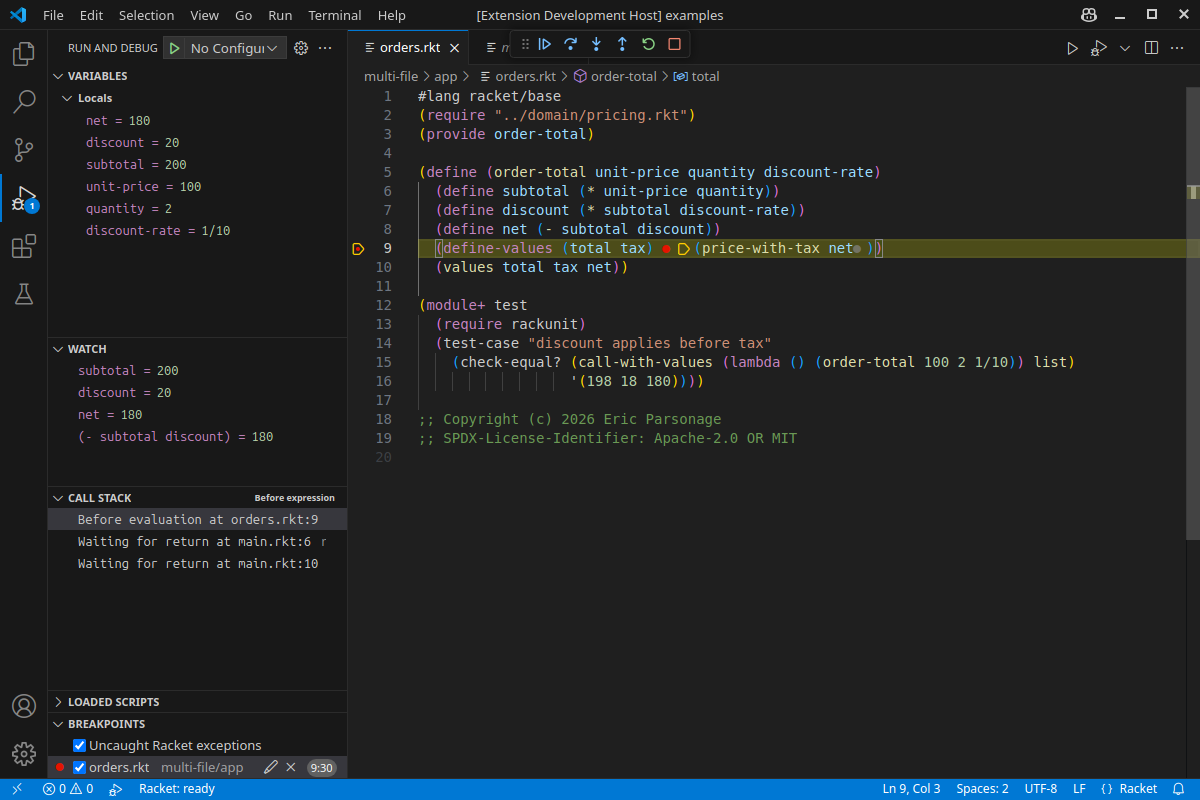
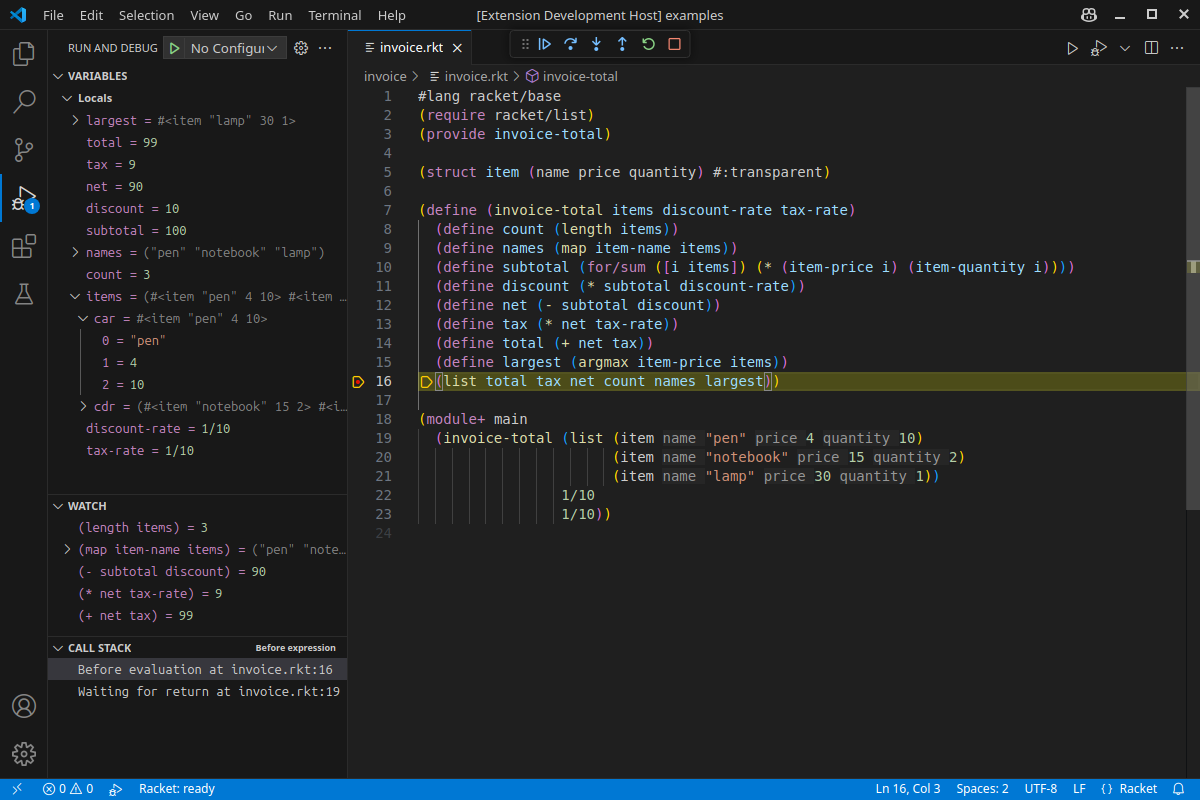
Lead the README with source-level debugging
The opening, the feature list and the first screenshot now start with the
debugger, with a fuller picture showing locals, an expanded structure and
watch expressions. The debugging sections follow installation, and the macro
stepper screenshot sits under its own section.

diff --git a/vscode/README.md b/vscode/README.md
@@ -1,19 +1,19 @@
 # Racketeer: Organised Racket
 
-Racketeer brings macro stepping, workspace navigation, debugger attachment and rich results to Racket development in VS Code and VSCodium.
+Racketeer brings source-level debugging, macro stepping, workspace navigation and rich results to Racket development in VS Code and VSCodium.
 
+- **Source-level debugging:** set line and inline breakpoints, step through expressions across files and chosen packages, and inspect or change live values.
+- **Attach the debugger to a running Racket program:** inspect servers and jobs started outside the editor. The program must embed Racketeer's debug host; disconnecting leaves the host running.
 - **Macro stepping inside VS Code:** follow expansion in linked Before and After panes beside the source, with syntax colouring, scope colours, binding arrows and term details.
 - **Vastly improved workspace indexing:** find references and rename across files, including unopened modules. On a measured 53-file project, indexing fell from **97.9 s to 8.9 s with one worker**, and from **37.0 s to 5.3 s with three workers**, with identical results. The index runs on request and reanalyses only files whose text or dependencies changed on later passes while the window stays open.
-- **Attach the debugger to a running Racket program:** inspect servers and jobs started outside the editor. The program must embed Racketeer's debug host; disconnecting leaves the host running.
 - **Language and debugging servers included:** Racketeer provides a language server and a workspace indexing server over the Language Server Protocol (LSP), and a debug adapter over the Debug Adapter Protocol (DAP).
-- **Debug expressions:** set line and inline breakpoints, step across files and chosen packages, and inspect or change live values.
 - **See results beside the code:** display text, images, picts and plots in Results or Interactions; zoom and rotate plots during debugging.
 - **Test in Test Explorer:** run, debug or measure coverage, with individual RackUnit cases available in supported modules and suites.
 - **Navigate, edit and experiment:** use hover documentation, completion, go to definition, live diagnostics and formatting, plus an Interactions window or a terminal REPL.
 - **Package and build:** manage Racket packages and create launchers, executables and distributions.
 - **Edit WXME and Rhombus:** edit WXME documents with embedded boxes, and Rhombus with the separate `rhombus` package.
 
-![Macro stepping beside the source, with linked Before and After panes and binding arrows](https://raw.githubusercontent.com/lamestllama/racketeer/main/docs/images/macro-steps.png)
+![Stopped at a breakpoint, with local variables, an expanded structure, watch expressions and the call stack visible](https://raw.githubusercontent.com/lamestllama/racketeer/main/docs/images/debugging.png)
 
 Indexing measurements: [0.8.55 release record](https://github.com/lamestllama/racketeer/blob/main/docs/releases/0.8.55.md#measured-gains). These figures describe the measured project; timings vary with the workload.
 
@@ -32,23 +32,33 @@ If the status bar shows **Racket: external LSP**, select **Use Racketeer’s Too
 
 For version errors, installing a VSIX or replacing the earlier development extension, see [installation troubleshooting](https://github.com/lamestllama/racketeer/blob/main/docs/workflows.md#installation-troubleshooting). The [release record](https://github.com/lamestllama/racketeer/blob/main/docs/releases/0.8.55.md#platform-coverage) records platform coverage.
 
-## Expand macros
+## Debug with breakpoints
 
-Open linked **Before** and **After** panes beside the source, with scope colours, binding arrows and term details. Choose which macros appear, or duplicate the stepper to compare expansions independently.
+Stop on a line or at an expression within it, across workspace files and chosen packages, and inspect the program's state.
 
-Use **Racket: Step Through Macros on This Line** (**Alt+Shift+M**) for the current line or selection, or **Racket: Step Through Macros in This File** for the whole file. Both use unsaved buffer text without saving it. Try [the macro example](https://github.com/lamestllama/racketeer/blob/main/examples/macro-stepper.rkt).
+Run **Racket: Debug Current File**, then select the gutter beside a line number or press **F9** to add a breakpoint. Right-click it to add a condition, hit count or log message. **Racket: Continue to Cursor** runs to one chosen point.
 
-Expansion runs readers and compile-time code and requires a trusted workspace. It does not run the module's ordinary body. A graphical display is not required.
+Uncaught runtime exceptions stop by default so their details, lexical variables and Call Stack can be inspected. Choose **Continue** to let the same exception propagate.
 
-The [macro-stepper guide](https://github.com/lamestllama/racketeer/blob/main/docs/editor-tools.md#macro-stepper) covers navigation, display and hiding options, worker lifetime, limits and error controls.
+See [breakpoints](https://github.com/lamestllama/racketeer/blob/main/docs/debugger.md#breakpoints) for binding rules and edge cases, and [uncaught exceptions](https://github.com/lamestllama/racketeer/blob/main/docs/debugger.md#uncaught-exceptions) for exception behaviour.
 
-## Find and rename across a project
+## Step through expressions
 
-**Find All References** and **Rename Symbol** (F2) include unopened `.rkt`, `.ss`, `.scm` and `.scrbl` modules in a trusted workspace. The index runs on request; the first request after a change waits for a cancellable pass. While the window stays open, later passes reanalyse only files whose text or dependencies changed. Unsaved buffers supply their files' text.
+Use **Step Into** (F11), **Step Over** (F10), **Step Out** (Shift+F11) and **Continue** (F5). Stops show both expression starts and returned values; open **Return values** in Variables after a return.
 
-The defaults allow **1,000 files**, **1 MiB per file** and **16 MiB total**. The status bar reports progress and partial references. Rename requires a complete, current index and refuses incomplete or stale results. Excluded folders and unscanned file types remain outside a rename, so check those callers separately; default exclusions include `build` and `dist`.
+By default a launch stops in `main`, the selected submodule or the module body. See [Understanding the stops](https://github.com/lamestllama/racketeer/blob/main/docs/stepping.md) for entry modes, tail calls, source markers and stepping limits.
 
-Use **Racket: Refresh Workspace References** after external package changes or to retry a failed analysis. See the [measured indexing gains](https://github.com/lamestllama/racketeer/blob/main/docs/releases/0.8.55.md#measured-gains), [workspace-reference settings and limits](https://github.com/lamestllama/racketeer/blob/main/docs/editor-tools.md#workspace-references) and [rename rules](https://github.com/lamestllama/racketeer/blob/main/docs/editor-tools.md#rename-across-files).
+## Inspect and change values
+
+Select a frame in **Call Stack**, then expand **Variables → Locals**, hover a variable, or evaluate Racket in the **Debug Console** or **Watch**. For example: `(+ subtotal 20)` or `(set! subtotal 200)`.
+
+**Racket: Set Variable Value** changes the variable under the cursor in the selected frame. Evaluation and assignment take real effect. See [evaluation and values](https://github.com/lamestllama/racketeer/blob/main/docs/debugger.md#evaluation-and-values) for expression replacement, printing, cancellation and inspection boundaries.
+
+## Save a launch configuration
+
+Use **Add Configuration** in `launch.json` to save a program's arguments, environment, console, entry behaviour and source selection.
+
+See [launching a program](https://github.com/lamestllama/racketeer/blob/main/docs/debugger.md#launching-a-program) for an example and the attribute reference, and [compiled code](https://github.com/lamestllama/racketeer/blob/main/docs/debugger.md#compiled-code) for cache settings and external-file dependencies.
 
 ## Attach to a running program
 
@@ -76,6 +86,26 @@ host running. Input, output and thread lifetime stay with the host.
 
 Details: [Attaching to an embedded Racket program](https://github.com/lamestllama/racketeer/blob/main/docs/debugger.md#attach-to-an-embedded-racket-program).
 
+## Expand macros
+
+![Macro stepping beside the source, with linked Before and After panes and binding arrows](https://raw.githubusercontent.com/lamestllama/racketeer/main/docs/images/macro-steps.png)
+
+Open linked **Before** and **After** panes beside the source, with scope colours, binding arrows and term details. Choose which macros appear, or duplicate the stepper to compare expansions independently.
+
+Use **Racket: Step Through Macros on This Line** (**Alt+Shift+M**) for the current line or selection, or **Racket: Step Through Macros in This File** for the whole file. Both use unsaved buffer text without saving it. Try [the macro example](https://github.com/lamestllama/racketeer/blob/main/examples/macro-stepper.rkt).
+
+Expansion runs readers and compile-time code and requires a trusted workspace. It does not run the module's ordinary body. A graphical display is not required.
+
+The [macro-stepper guide](https://github.com/lamestllama/racketeer/blob/main/docs/editor-tools.md#macro-stepper) covers navigation, display and hiding options, worker lifetime, limits and error controls.
+
+## Find and rename across a project
+
+**Find All References** and **Rename Symbol** (F2) include unopened `.rkt`, `.ss`, `.scm` and `.scrbl` modules in a trusted workspace. The index runs on request; the first request after a change waits for a cancellable pass. While the window stays open, later passes reanalyse only files whose text or dependencies changed. Unsaved buffers supply their files' text.
+
+The defaults allow **1,000 files**, **1 MiB per file** and **16 MiB total**. The status bar reports progress and partial references. Rename requires a complete, current index and refuses incomplete or stale results. Excluded folders and unscanned file types remain outside a rename, so check those callers separately; default exclusions include `build` and `dist`.
+
+Use **Racket: Refresh Workspace References** after external package changes or to retry a failed analysis. See the [measured indexing gains](https://github.com/lamestllama/racketeer/blob/main/docs/releases/0.8.55.md#measured-gains), [workspace-reference settings and limits](https://github.com/lamestllama/racketeer/blob/main/docs/editor-tools.md#workspace-references) and [rename rules](https://github.com/lamestllama/racketeer/blob/main/docs/editor-tools.md#rename-across-files).
+
 ## Run a file and see its results
 
 Use **Racket: Run Current File** to save the file, run its root module and `main` submodule when present, and show text and images in **Results** beside the source. Results stays open after the program exits.
@@ -85,36 +115,6 @@ Use **Racket: Run Current File** to save the file, run its root module and `main
 The editor toolbar also offers **Racket: Debug Current File** and **Racket: File Actions…**. Use **Racket: Run Current File in Terminal** for terminal applications and native process streams.
 
 See [Results controls, input and lifetime](https://github.com/lamestllama/racketeer/blob/main/docs/workflows.md#results-view), and [images and plots](https://github.com/lamestllama/racketeer/blob/main/docs/workflows.md#images-and-plots) for printing rules, image saving and interactive plot controls.
-
-## Debug with breakpoints
-
-Stop on a line or at an expression within it, across workspace files and chosen packages, and inspect the program's state.
-
-![Stopped at a breakpoint with Variables and Call Stack visible](https://raw.githubusercontent.com/lamestllama/racketeer/main/docs/images/debugging.png)
-
-Run **Racket: Debug Current File**, then select the gutter beside a line number or press **F9** to add a breakpoint. Right-click it to add a condition, hit count or log message. **Racket: Continue to Cursor** runs to one chosen point.
-
-Uncaught runtime exceptions stop by default so their details, lexical variables and Call Stack can be inspected. Choose **Continue** to let the same exception propagate.
-
-See [breakpoints](https://github.com/lamestllama/racketeer/blob/main/docs/debugger.md#breakpoints) for binding rules and edge cases, and [uncaught exceptions](https://github.com/lamestllama/racketeer/blob/main/docs/debugger.md#uncaught-exceptions) for exception behaviour.
-
-## Step through expressions
-
-Use **Step Into** (F11), **Step Over** (F10), **Step Out** (Shift+F11) and **Continue** (F5). Stops show both expression starts and returned values; open **Return values** in Variables after a return.
-
-By default a launch stops in `main`, the selected submodule or the module body. See [Understanding the stops](https://github.com/lamestllama/racketeer/blob/main/docs/stepping.md) for entry modes, tail calls, source markers and stepping limits.
-
-## Inspect and change values
-
-Select a frame in **Call Stack**, then expand **Variables → Locals**, hover a variable, or evaluate Racket in the **Debug Console** or **Watch**. For example: `(+ subtotal 20)` or `(set! subtotal 200)`.
-
-**Racket: Set Variable Value** changes the variable under the cursor in the selected frame. Evaluation and assignment take real effect. See [evaluation and values](https://github.com/lamestllama/racketeer/blob/main/docs/debugger.md#evaluation-and-values) for expression replacement, printing, cancellation and inspection boundaries.
-
-## Save a launch configuration
-
-Use **Add Configuration** in `launch.json` to save a program's arguments, environment, console, entry behaviour and source selection.
-
-See [launching a program](https://github.com/lamestllama/racketeer/blob/main/docs/debugger.md#launching-a-program) for an example and the attribute reference, and [compiled code](https://github.com/lamestllama/racketeer/blob/main/docs/debugger.md#compiled-code) for cache settings and external-file dependencies.
 
 ## Test
 

diff --git a/README.md b/README.md
@@ -1,19 +1,19 @@
 # Racketeer: Organised Racket
 
-Racketeer brings macro stepping, workspace navigation, debugger attachment and rich results to Racket development in VS Code and VSCodium.
+Racketeer brings source-level debugging, macro stepping, workspace navigation and rich results to Racket development in VS Code and VSCodium.
 
+- **Source-level debugging:** set line and inline breakpoints, step through expressions across files and chosen packages, and inspect or change live values.
+- **Attach the debugger to a running Racket program:** inspect servers and jobs started outside the editor. The program must embed Racketeer's debug host; disconnecting leaves the host running.
 - **Macro stepping inside VS Code:** follow expansion in linked Before and After panes beside the source, with syntax colouring, scope colours, binding arrows and term details.
 - **Vastly improved workspace indexing:** find references and rename across files, including unopened modules. On a measured 53-file project, indexing fell from **97.9 s to 8.9 s with one worker**, and from **37.0 s to 5.3 s with three workers**, with identical results. The index runs on request and reanalyses only files whose text or dependencies changed on later passes while the window stays open.
-- **Attach the debugger to a running Racket program:** inspect servers and jobs started outside the editor. The program must embed Racketeer's debug host; disconnecting leaves the host running.
 - **Language and debugging servers included:** Racketeer provides a language server and a workspace indexing server over the Language Server Protocol (LSP), and a debug adapter over the Debug Adapter Protocol (DAP).
-- **Debug expressions:** set line and inline breakpoints, step across files and chosen packages, and inspect or change live values.
 - **See results beside the code:** display text, images, picts and plots in Results or Interactions; zoom and rotate plots during debugging.
 - **Test in Test Explorer:** run, debug or measure coverage, with individual RackUnit cases available in supported modules and suites.
 - **Navigate, edit and experiment:** use hover documentation, completion, go to definition, live diagnostics and formatting, plus an Interactions window or a terminal REPL.
 - **Package and build:** manage Racket packages and create launchers, executables and distributions.
 - **Edit WXME and Rhombus:** edit WXME documents with embedded boxes, and Rhombus with the separate `rhombus` package.
 
-![Macro stepping beside the source, with linked Before and After panes and binding arrows](docs/images/macro-steps.png)
+![Stopped at a breakpoint, with local variables, an expanded structure, watch expressions and the call stack visible](docs/images/debugging.png)
 
 Indexing measurements: [0.8.55 release record](docs/releases/0.8.55.md#measured-gains). These figures describe the measured project; timings vary with the workload.
 
@@ -33,17 +33,27 @@ Open a trusted folder and a saved `.rkt` file: the language tools start automati
 
 The extension ID is `lamestllama.racketeer`; the debugger type and settings prefix are `racketdap`. See [installation troubleshooting](docs/workflows.md#installation-troubleshooting) before replacing the earlier development extension. While Magic Racket's language server is enabled, the status bar shows **Racket: external LSP**, and Racketeer's language tools and workspace index stay off. Disable that server and reload, or accept **Use Racketeer’s Tools**.
 
+## Debug with breakpoints
+
+Use **Racket: Debug Current File** to stop and inspect a program with line and inline breakpoints, Call Stack and Variables.
+
+Try [examples/demo.rkt](examples/demo.rkt) from the repository: place a breakpoint on line 4, evaluate `(+ subtotal 20)` in the Debug Console, then `(set! subtotal 200)`. Step Over displays `20` in the Return values scope; continuing prints `220` and `20`.
+
+See [breakpoints](docs/debugger.md#breakpoints), [expression stepping](docs/stepping.md) and [evaluation and values](docs/debugger.md#evaluation-and-values).
+
+## Attach to a running program
+
+Attach to a running Racket program that embeds Racketeer's debug host; disconnecting leaves the host running. See [the attachment configuration and host requirements](docs/debugger.md#attach-to-an-embedded-racket-program).
+
 ## Expand macros
+
+![Macro stepping beside the source, with linked Before and After panes and binding arrows](docs/images/macro-steps.png)
 
 Use **Racket: Step Through Macros on This Line** (**Alt+Shift+M**) or **Racket: Step Through Macros in This File** to open linked Before and After panes. Expansion uses unsaved text and runs compile-time code in a trusted workspace. See [the macro-stepper guide](docs/editor-tools.md#macro-stepper).
 
 ## Find and rename across a project
 
 **Find All References** and **Rename Symbol** include unopened workspace modules. The index runs on request and reanalyses files whose text or dependencies changed. Defaults allow 1,000 files, 1 MiB per file and 16 MiB total; rename refuses incomplete or stale results. See [workspace references](docs/editor-tools.md#workspace-references) for settings and exclusions.
-
-## Attach to a running program
-
-Attach to a running Racket program that embeds Racketeer's debug host; disconnecting leaves the host running. See [the attachment configuration and host requirements](docs/debugger.md#attach-to-an-embedded-racket-program).
 
 ## Run a file and see its results
 
@@ -52,16 +62,6 @@ Use **Racket: Run Current File** to save and run the file, showing text and imag
 ![Source beside Results containing images and plots](docs/images/results-with-plots.png)
 
 See [Results controls and lifetime](docs/workflows.md#results-view) and [images and plots](docs/workflows.md#images-and-plots) for input, saving and interactive plot controls.
-
-## Debug with breakpoints
-
-Use **Racket: Debug Current File** to stop and inspect a program with line and inline breakpoints, Call Stack and Variables.
-
-![Stopped at a breakpoint with Variables and Call Stack visible](docs/images/debugging.png)
-
-Try [examples/demo.rkt](examples/demo.rkt) from the repository: place a breakpoint on line 4, evaluate `(+ subtotal 20)` in the Debug Console, then `(set! subtotal 200)`. Step Over displays `20` in the Return values scope; continuing prints `220` and `20`.
-
-See [breakpoints](docs/debugger.md#breakpoints), [expression stepping](docs/stepping.md) and [evaluation and values](docs/debugger.md#evaluation-and-values).
 
 ## Test
 
